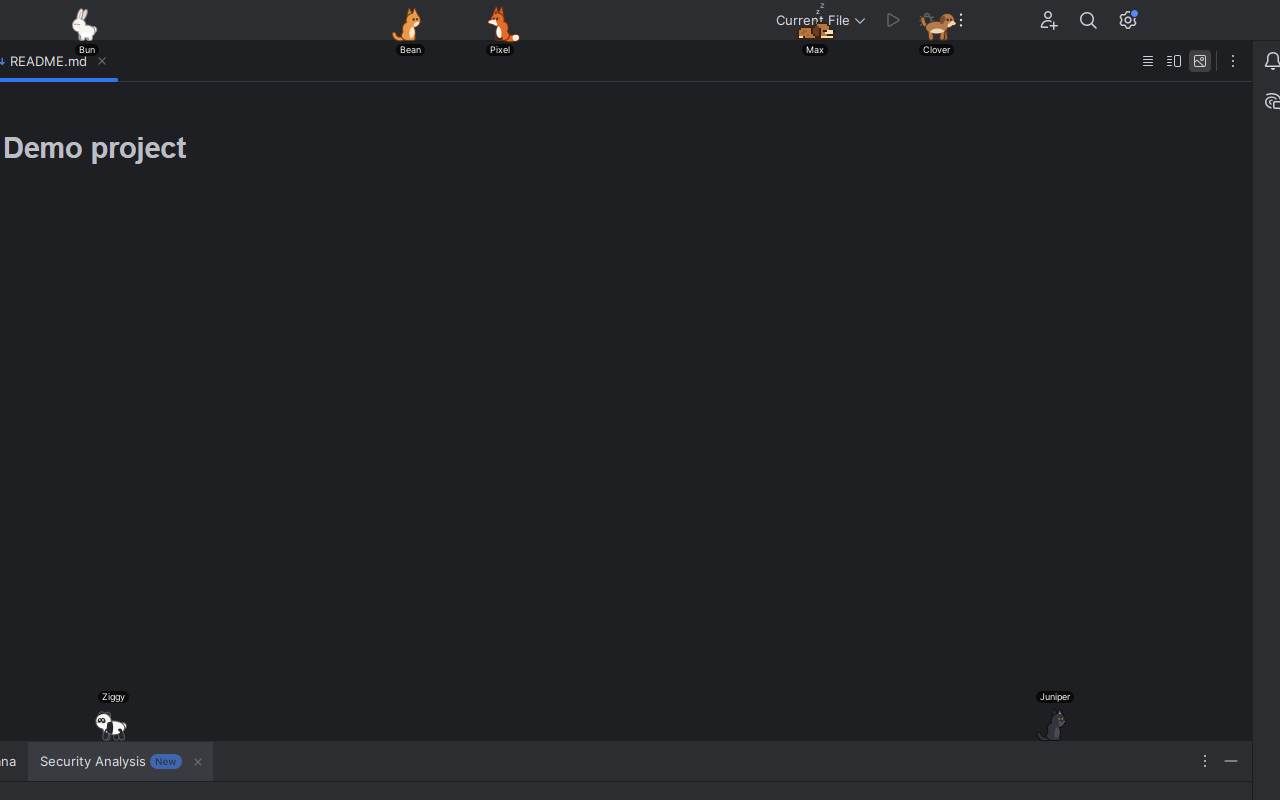
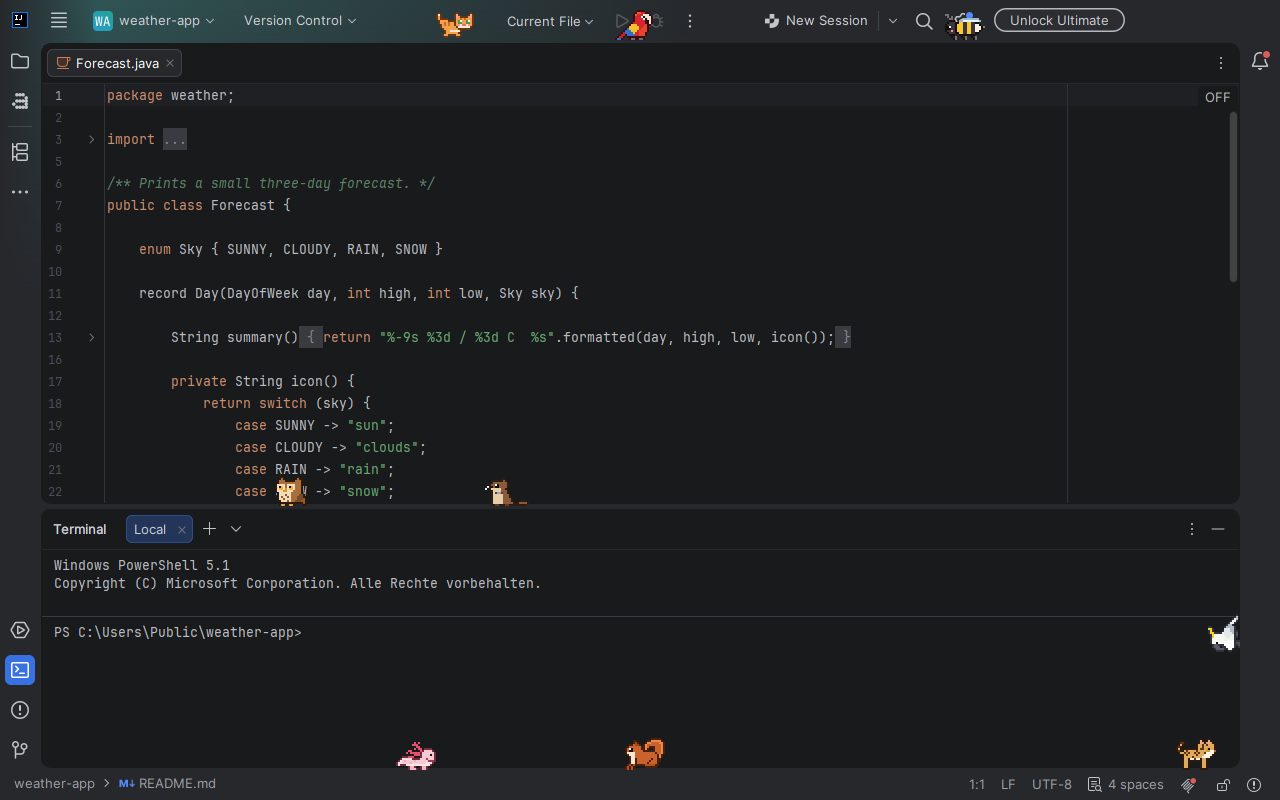
New IDE screenshot in IntelliJ IDEA 2026.3 with pixel pets
docs/in-the-ide.png now shows IntelliJ IDEA 2026.3 with a Java file in the
editor and a terminal below; nine pixel-art pets walk the title bar, the
terminal edge and the status bar, and one climbs the window border.

Screenshot tooling (sandbox debug mode, dev only):
- runIdea: runs the plugin in a local IntelliJ IDEA 2026.3 install
- -PpetsDebugKinds: seed exactly these species, no visitors or name tags,
  then spread the pets evenly over the walkable surfaces
- -PpetsDebugWindowSize: resize the window content, e.g. to 1280x800
- -PpetsDebugToolWindow / -PpetsDebugOpenFile: tool window and file to show

diff --git a/src/main/java/io/github/programmiererefz/codegschpaenli/overlay/DebugSnapshots.java b/src/main/java/io/github/programmiererefz/codegschpaenli/overlay/DebugSnapshots.java
@@ -38,11 +38,28 @@ final class DebugSnapshots {
 
     private int shots;
 
-    /** Adds a handful of pets so all species can be inspected. */
+    /**
+     * Adds a handful of pets so all species can be inspected. With {@code -Dcodegschpaenli.debug.kinds=KOALA,PIXEL_OWL,...}
+     * the adopted pets are replaced by exactly those species (first colour variant), random visitors and
+     * name tags are switched off, and after a few seconds the pets are spread evenly over the walkable surfaces, for a
+     * controlled scene (e.g. screenshots). {@code -Dcodegschpaenli.debug.windowSize=1280x800} also resizes each project
+     * window so that its content has exactly that size.
+     */
     static void seedPets() {
         if (!ENABLED) return;
-        int wanted = Integer.getInteger("codegschpaenli.debug.pets", 0);
         PetsSettings s = PetsSettings.getInstance();
+        String kindList = System.getProperty("codegschpaenli.debug.kinds", "").trim();
+        if (!kindList.isEmpty()) {
+            s.getState().pets.clear();
+            for (String name : kindList.split(",")) {
+                PetKind k = PetKind.parse(name.trim());
+                s.getState().pets.add(new PetsSettings.PetEntry(k, k.palettes().get(0).name(), PetNames.random(k)));
+            }
+            s.getState().showNames = false;
+            s.getState().visitorsEnabled = false;
+            return;
+        }
+        int wanted = Integer.getInteger("codegschpaenli.debug.pets", 0);
         PetKind[] kinds = PetKind.values();
         for (int i = s.getState().pets.size(); i < wanted; i++) {
             PetKind k = kinds[i % kinds.length];
@@ -61,21 +78,81 @@ final class DebugSnapshots {
     void onFrame(int frameCounter, Collection<PetOverlay> overlays) {
         if (!ENABLED || frameCounter % EVERY_FRAMES != 0 || shots >= MAX_SHOTS) return;
         shots++;
+        if (shots == 1) resizeWindows(overlays);
         if (shots == 2) {
             // open a bottom tool window so there is a surface in the middle of the window
+            // (-Dcodegschpaenli.debug.toolWindow=Terminal picks another one), and optionally a file in the editor
+            // (-Dcodegschpaenli.debug.openFile=src/Main.java, relative to the project; all other editors are closed)
+            String toolWindow = System.getProperty("codegschpaenli.debug.toolWindow", "Problems View");
+            String openFile = System.getProperty("codegschpaenli.debug.openFile", "").trim();
             for (com.intellij.openapi.project.Project p : com.intellij.openapi.project.ProjectManager.getInstance().getOpenProjects()) {
+                if (!openFile.isEmpty() && p.getBasePath() != null) {
+                    var file = com.intellij.openapi.vfs.LocalFileSystem.getInstance()
+                            .refreshAndFindFileByPath(p.getBasePath() + "/" + openFile);
+                    if (file != null) {
+                        var fem = com.intellij.openapi.fileEditor.FileEditorManager.getInstance(p);
+                        for (var other : fem.getOpenFiles()) {
+                            if (!other.equals(file)) fem.closeFile(other);
+                        }
+                        fem.openFile(file, true);
+                    }
+                }
                 var twm = com.intellij.openapi.wm.ToolWindowManager.getInstance(p);
-                var tw = twm.getToolWindow("Problems View");
+                var tw = twm.getToolWindow(toolWindow);
                 if (tw != null) tw.show();
                 // the Project view shows the project's full path; hide it so snapshots can be used as screenshots
                 var project = twm.getToolWindow("Project");
                 if (project != null) project.hide();
             }
         }
+        boolean scene = !System.getProperty("codegschpaenli.debug.kinds", "").isBlank();
+        if (scene && shots == 4) { // after the tool window and editor have settled
+            for (PetOverlay o : overlays) spreadPets(o.world());
+        }
         int i = 0;
         for (PetOverlay o : overlays) {
-            if (shots == BALL_AT_SHOT) o.throwBall();
+            if (shots == BALL_AT_SHOT && !scene) o.throwBall();
             write(o, i++);
+        }
+    }
+
+    /** Drops the pets evenly over the walkable surfaces (round robin, evenly spaced along each surface). */
+    private static void spreadPets(io.github.programmiererefz.codegschpaenli.world.World world) {
+        java.util.List<Surface> surfaces = new java.util.ArrayList<>();
+        for (Surface s : world.surfaces()) {
+            if (!"window bottom".equals(s.label())) surfaces.add(s);
+        }
+        if (surfaces.isEmpty()) return;
+        java.util.List<Pet> pets = new java.util.ArrayList<>(world.pets());
+        int n = surfaces.size();
+        for (int si = 0; si < n; si++) {
+            Surface s = surfaces.get(si);
+            java.util.List<Pet> here = new java.util.ArrayList<>();
+            for (int pi = si; pi < pets.size(); pi += n) here.add(pets.get(pi));
+            for (int k = 0; k < here.size(); k++) {
+                Pet p = here.get(k);
+                double x = s.x1() + s.width() * (k + 0.5 + (si % 2) * 0.25) / (here.size() + 0.25);
+                world.grab(p);
+                world.drag(p, x, s.y() - 2);
+                world.release(p, 0, 0);
+            }
+        }
+    }
+
+    /** Resizes each project window so that its content (the root pane) matches {@code codegschpaenli.debug.windowSize}. */
+    private static void resizeWindows(Collection<PetOverlay> overlays) {
+        String size = System.getProperty("codegschpaenli.debug.windowSize", "").trim();
+        String[] wh = size.split("x");
+        if (wh.length != 2) return;
+        int w = Integer.parseInt(wh[0].trim());
+        int h = Integer.parseInt(wh[1].trim());
+        for (PetOverlay o : overlays) {
+            java.awt.Window win = javax.swing.SwingUtilities.getWindowAncestor(o.rootPane());
+            if (win == null) continue;
+            if (win instanceof java.awt.Frame f) f.setExtendedState(java.awt.Frame.NORMAL);
+            JRootPane rp = o.rootPane();
+            win.setSize(win.getWidth() + w - rp.getWidth(), win.getHeight() + h - rp.getHeight());
+            win.validate();
         }
     }
 

diff --git a/README.md b/README.md
@@ -13,7 +13,7 @@ balls you throw.
 
 Works in IntelliJ-based IDEs 2025.2 and newer (IntelliJ IDEA, PhpStorm, PyCharm, ...).
 
-![Pets on the window header and on top of a tool window](docs/in-the-ide.png)
+![Pixel-art pets on the title bar, the terminal and the status bar of IntelliJ IDEA; the cockatoo climbs the window border](docs/in-the-ide.png)
 
 "Gschpänli" is Swiss German for "little buddies": the companions that keep you company while you code.
 
